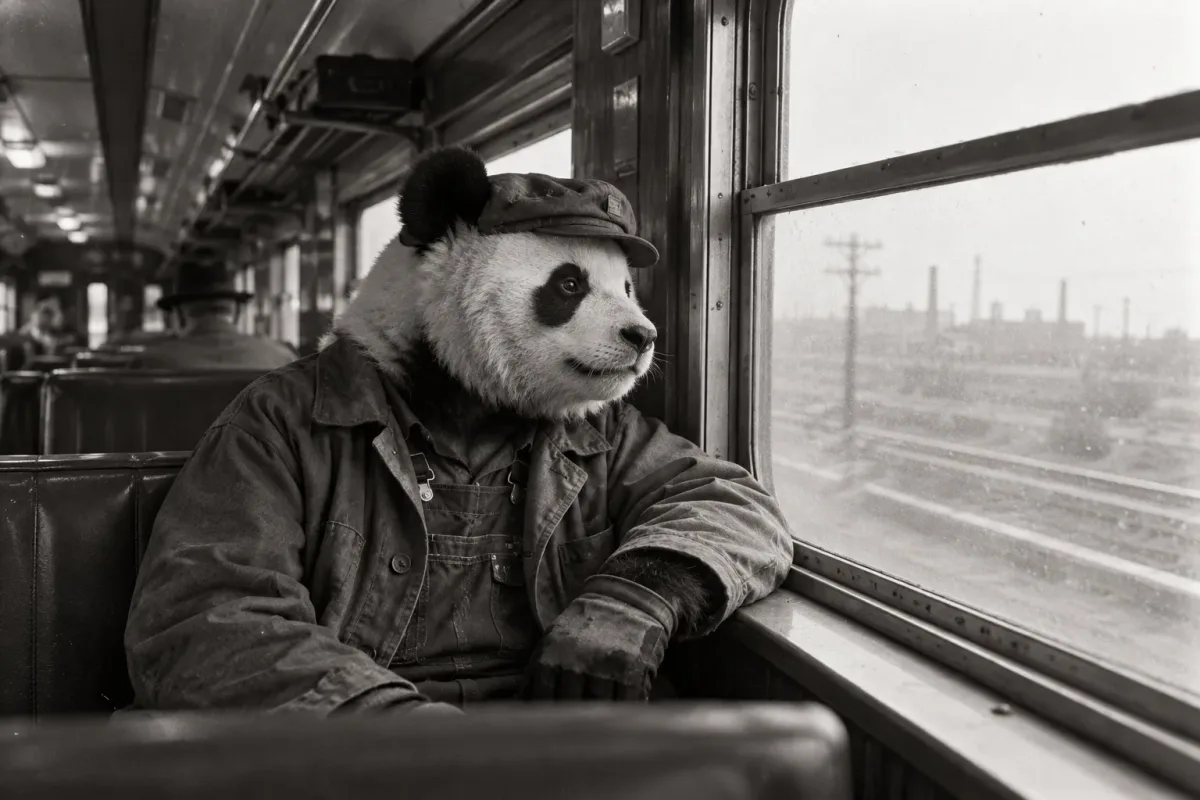
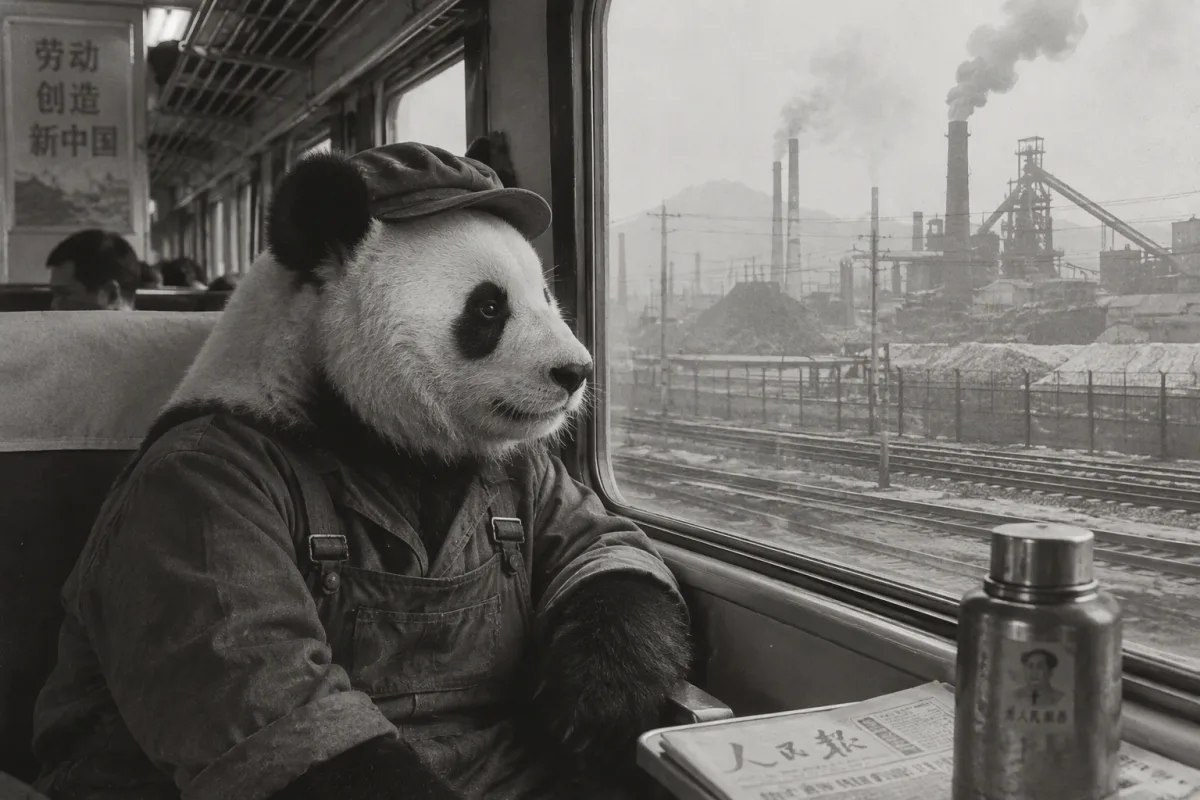
Image « ancienne version » (-legacy) rattachée au prompt d'origine ; nouvelle image du panda
Claude-Session: https://claude.ai/code/session_01THDc5ALKhK91HT4xovb9tT

diff --git a/src/pages/Detail.tsx b/src/pages/Detail.tsx
@@ -6,6 +6,7 @@ import { CopyButton } from '../components/CopyButton.tsx';
 import { PromptBlock } from '../components/PromptBlock.tsx';
 import { PromptGrid } from '../components/PromptGrid.tsx';
 import { mentionsReference, splitPrompt } from '../utils/guide.ts';
+import { assetUrl } from '../utils/assets.ts';
 import { relatedEntries } from '../utils/related.ts';
 import { href } from '../utils/router.ts';
 import { KIND_LABELS, LANGUAGE_LABELS, ORIENTATION_LABELS } from '../utils/labels.ts';
@@ -55,6 +56,16 @@ export function Detail({ id, lookup = entriesById }: { id: string; lookup?: Map<
                       {v.label}
                       {v.language ? ` · ${LANGUAGE_LABELS[v.language]}` : ''}
                     </p>
+                    {v.image ? (
+                      <img
+                        className="variants__image"
+                        src={assetUrl(v.image.thumbnail)}
+                        alt={v.image.alt}
+                        loading="lazy"
+                        decoding="async"
+                        {...(v.image.width && v.image.height ? { width: 480, height: Math.round((480 * v.image.height) / v.image.width) } : {})}
+                      />
+                    ) : null}
                     <pre className="prompt-text" lang={v.language}>{v.prompt}</pre>
                     <CopyButton text={v.prompt} compact accessibleName={`Copier la variante « ${v.label} » : ${entry.title}`} />
                   </li>

diff --git a/tests/images-refs.test.ts b/tests/images-refs.test.ts
@@ -74,3 +74,12 @@ describe('rattachement de l’image', () => {
     expect(attachImage(e, undefined)).toEqual({ entry: e, pending: false });
   });
 });
+
+describe('images « ancienne version »', () => {
+  it('reconnaît le suffixe -legacy et lit le reste du nom normalement', async () => {
+    const { parseImageStem } = await import('../scripts/lib/refs.mts');
+    expect(parseImageStem('image2.5_ENT-VNHZB48D-legacy')).toMatchObject({ legacy: true, altRef: 'ENT-VNHZB48D', altTool: 'image2.5' });
+    expect(parseImageStem('ENT-VNHZB48D__Midjourney-legacy')).toMatchObject({ legacy: true, ref: 'ENT-VNHZB48D', tool: 'Midjourney' });
+    expect(parseImageStem('ENT-VNHZB48D').legacy).toBeUndefined();
+  });
+});

diff --git a/src/styles/global.css b/src/styles/global.css
@@ -293,3 +293,5 @@ mark { background: var(--tint-6); color: inherit; padding: 0 0.15em; outline: 1p
 .help-dialog__label { font-size: 1.05rem; }
 .help-dialog__text { font-weight: 400; font-size: 0.9rem; }
 .site-footer { display: flex; flex-wrap: wrap; align-items: center; justify-content: space-between; gap: 0.5rem 1.5rem; }
+
+.variants__image { width: 100%; max-width: 30rem; height: auto; margin: 0 0 0.6rem; border: 1px solid var(--rule); }

diff --git a/src/types/library.ts b/src/types/library.ts
@@ -45,6 +45,8 @@ export interface PromptVariant {
   language?: PromptLanguage;
   /** « variant » : autre formulation ; « brick » : brique recomposable. */
   role: 'variant' | 'brick';
+  /** Image associée à cette variante (ex. résultat de l'ancienne version du prompt). */
+  image?: PromptImage;
 }
 
 export interface PromptEntry {

diff --git a/SOURCES.md b/SOURCES.md
@@ -50,7 +50,7 @@ Jeu de données actuellement publié : mode **full** — 1554 fiche(s) au total.
 - **prompt-bible** (sample) — 2026-10-27T15:35:08.100Z — réussi : 30 entrée(s) importée(s) sur 424 analysée(s)
   - Le classeur ne contient aucune image : toutes les fiches sont « sans image » tant que imports/images/<id>.* n’est pas alimenté.
   - 16 texte(s) sans Entrée_ID (fragments autonomes) non inclus dans le lot pilote ; ils ne deviennent pas des fiches.
-- **prompt-bible** (full) — 2026-10-30T08:26:22.789Z — réussi : 424 entrée(s) importée(s) sur 424 analysée(s)
+- **prompt-bible** (full) — 2026-10-30T08:53:42.387Z — réussi : 424 entrée(s) importée(s) sur 424 analysée(s)
   - Le classeur ne contient aucune image : toutes les fiches sont « sans image » tant que imports/images/<id>.* n’est pas alimenté.
   - 16 texte(s) sans Entrée_ID (fragments autonomes) conservés dans "fragments" du fichier brut ; ils ne deviennent pas des fiches.
 - **external-initial** (full) — 2026-10-28T08:57:24.315Z — réussi : 1130 entrée(s) importée(s) sur 1130 analysée(s)
